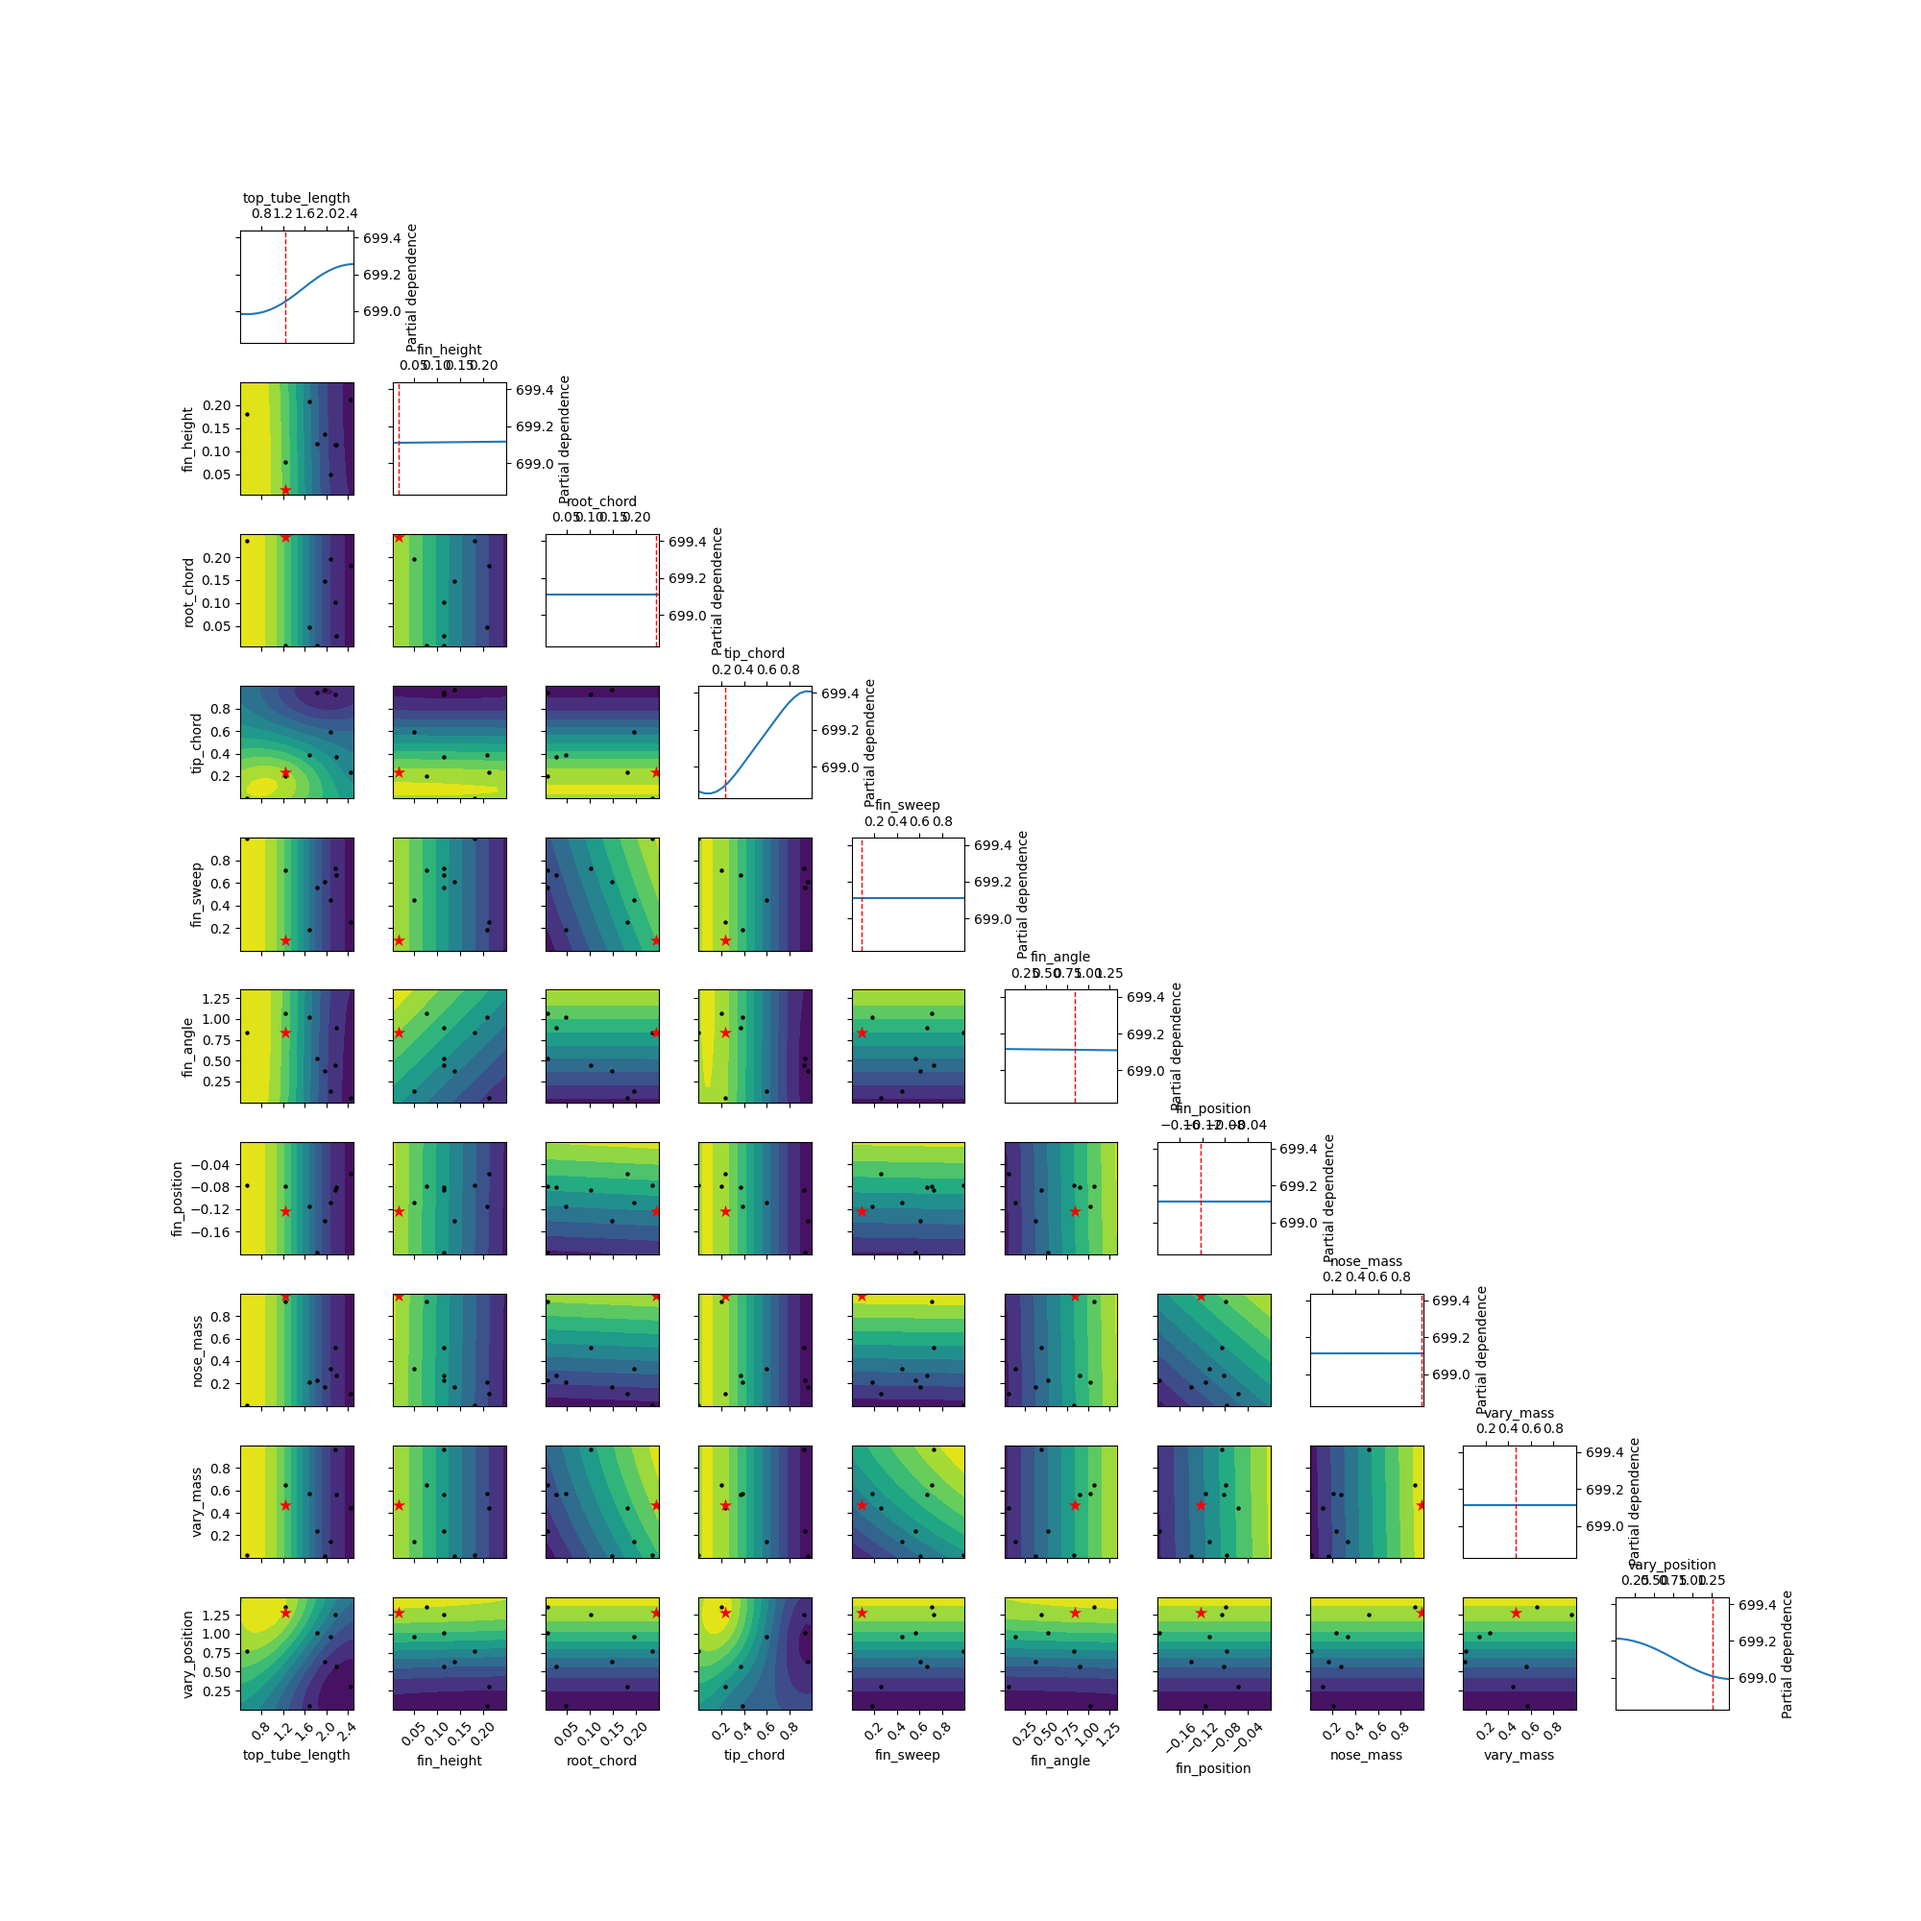
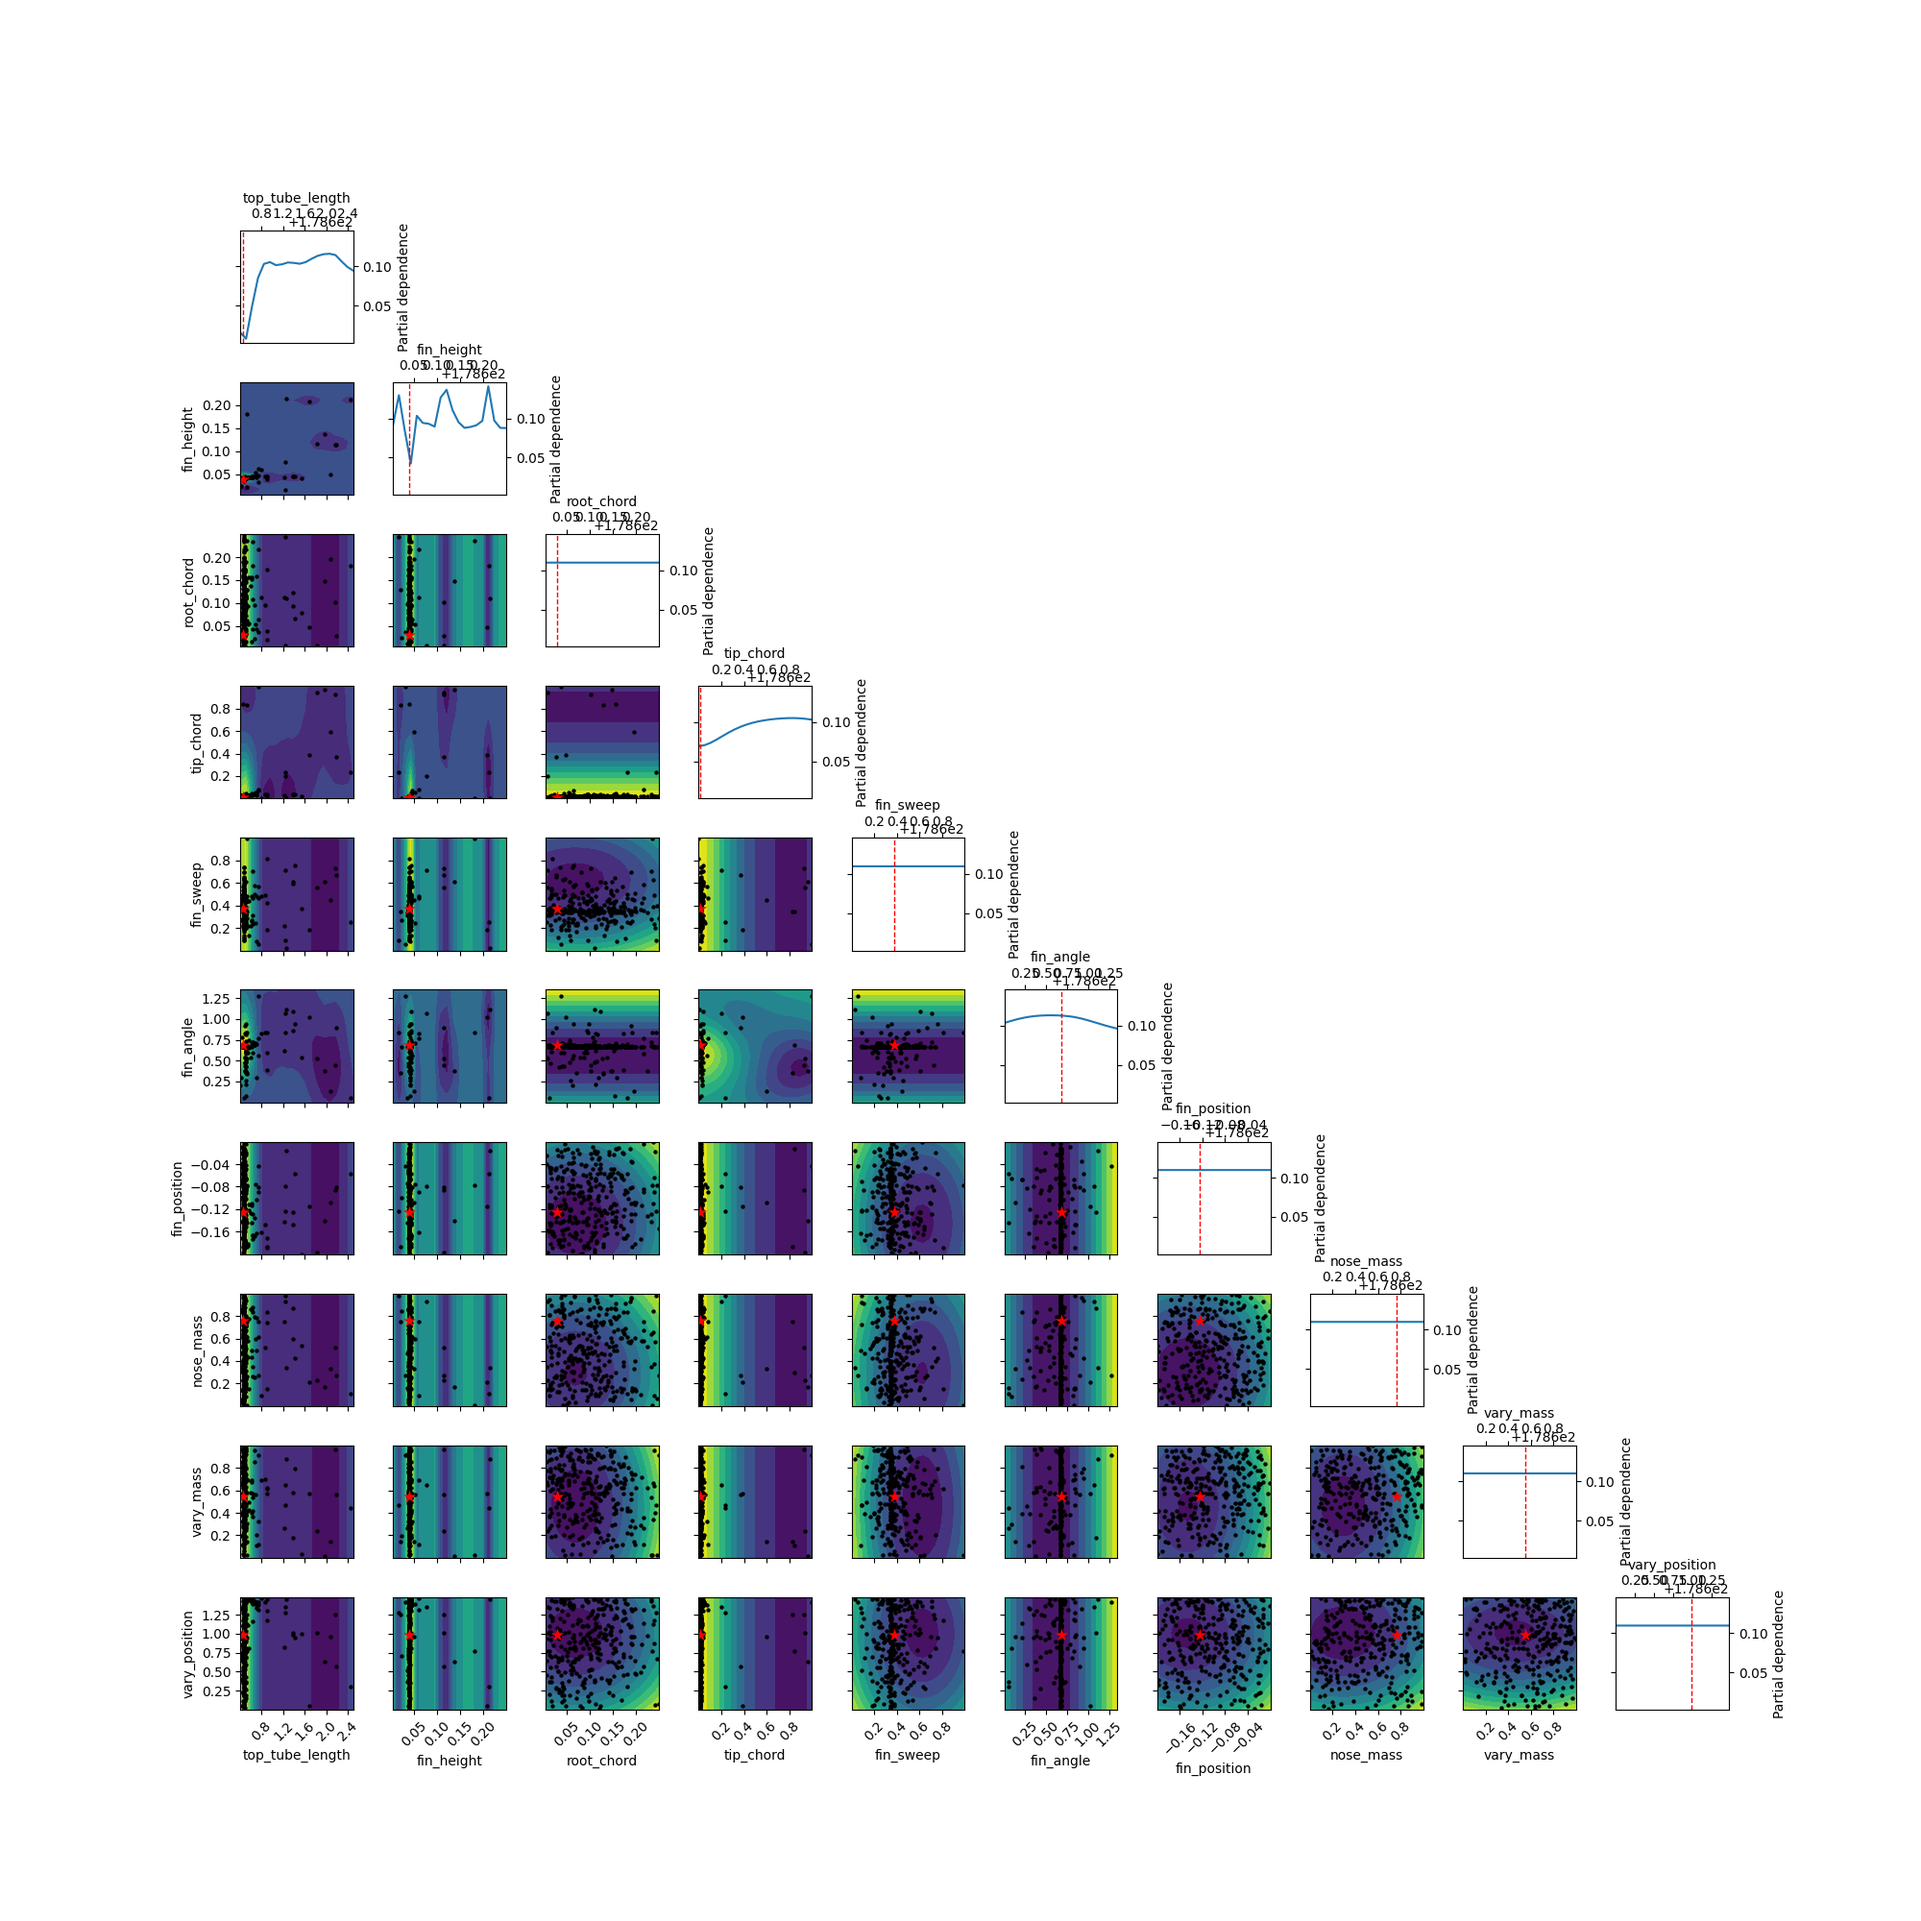
Increase in optization iterations

diff --git a/main.py b/main.py
@@ -26,7 +26,7 @@ try:
             print(f"Loaded rocket")
             # Run the Optimizer
             Opt = Optimizer(instance, str(ROCKET_FILE))
-            results = Opt.run_optimizer(TARGET_ALTITUDE, iterations=10)
+            results = Opt.run_optimizer(TARGET_ALTITUDE, iterations=500)
             print(f"✅ Optimization Complete! Best Apogee: {results[1]} m")
             # Report Results
             UiTools.report_results(results[0])
